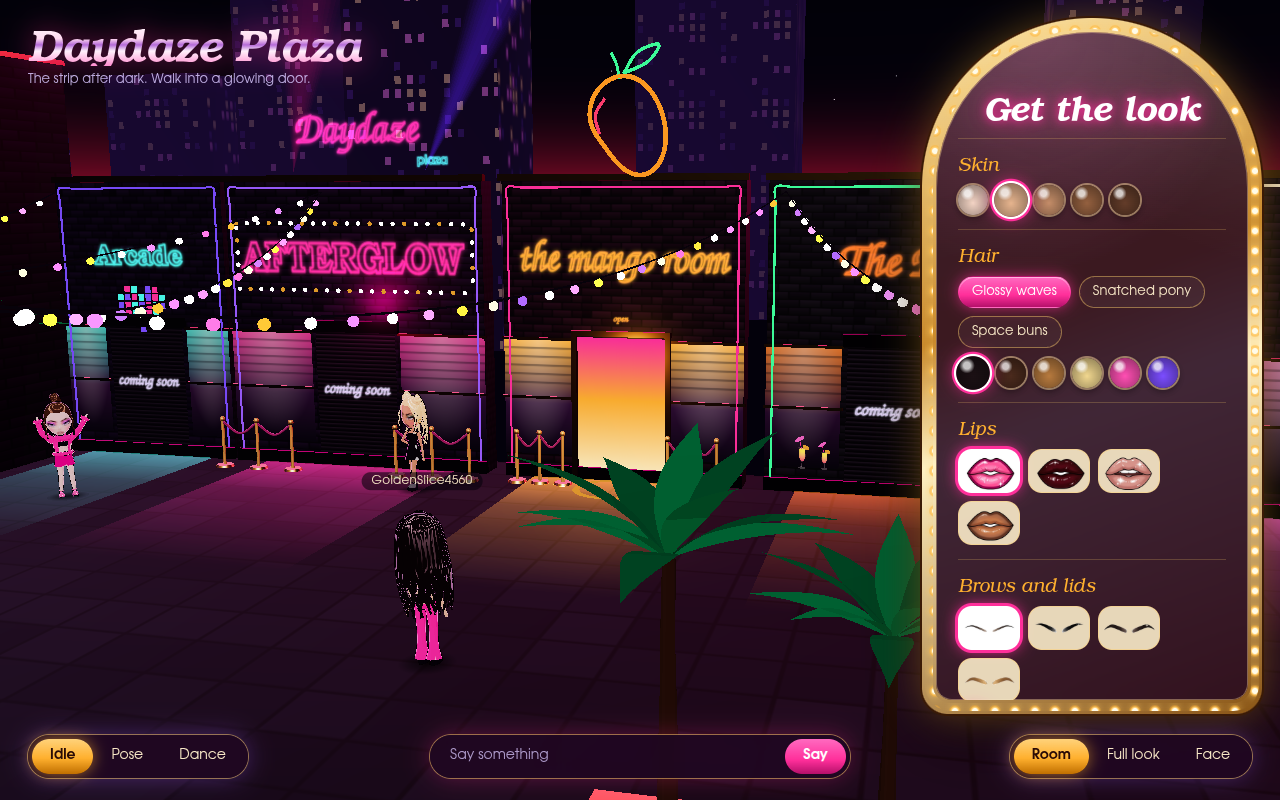
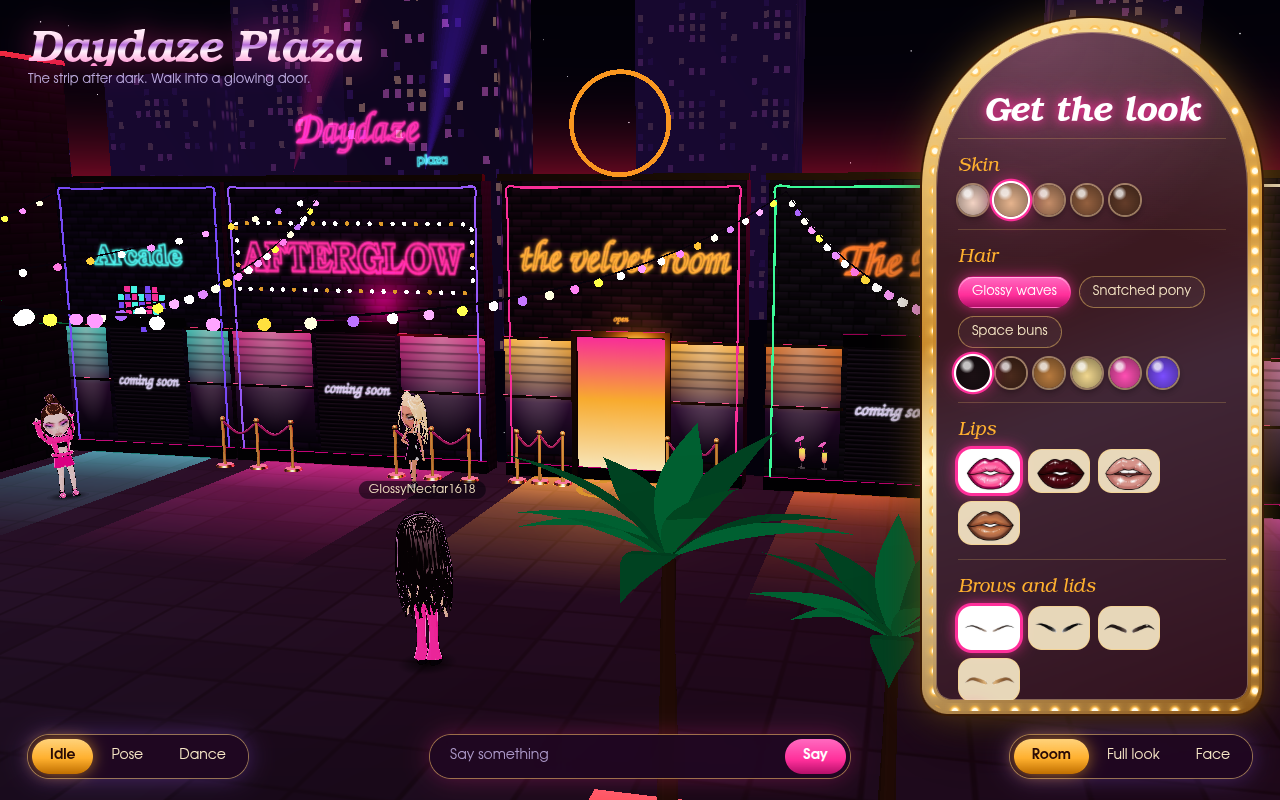
docs(screenshots): add Water Park shots and refresh Velvet and Plaza

diff --git a/scripts/screenshots.ts b/scripts/screenshots.ts
@@ -15,6 +15,18 @@ const SHOTS: {
   { name: "velvet-room-full-look", query: "room=velvet-room&view=full" },
   { name: "plaza", query: "room=plaza" },
   { name: "plaza-face", query: "room=plaza&view=face" },
+  { name: "water-park-wide", query: "room=water-park" },
+  { name: "water-park-swimsuit", query: "room=water-park&view=full" },
+  {
+    name: "water-park-slide",
+    query: "room=water-park&slide=0.45",
+    live: true,
+  },
+  {
+    name: "water-park-mobile",
+    query: "room=water-park",
+    viewport: { width: 390, height: 844 },
+  },
   { name: "amusement-park-wide", query: "room=amusement-park" },
   {
     name: "amusement-park-coaster",
